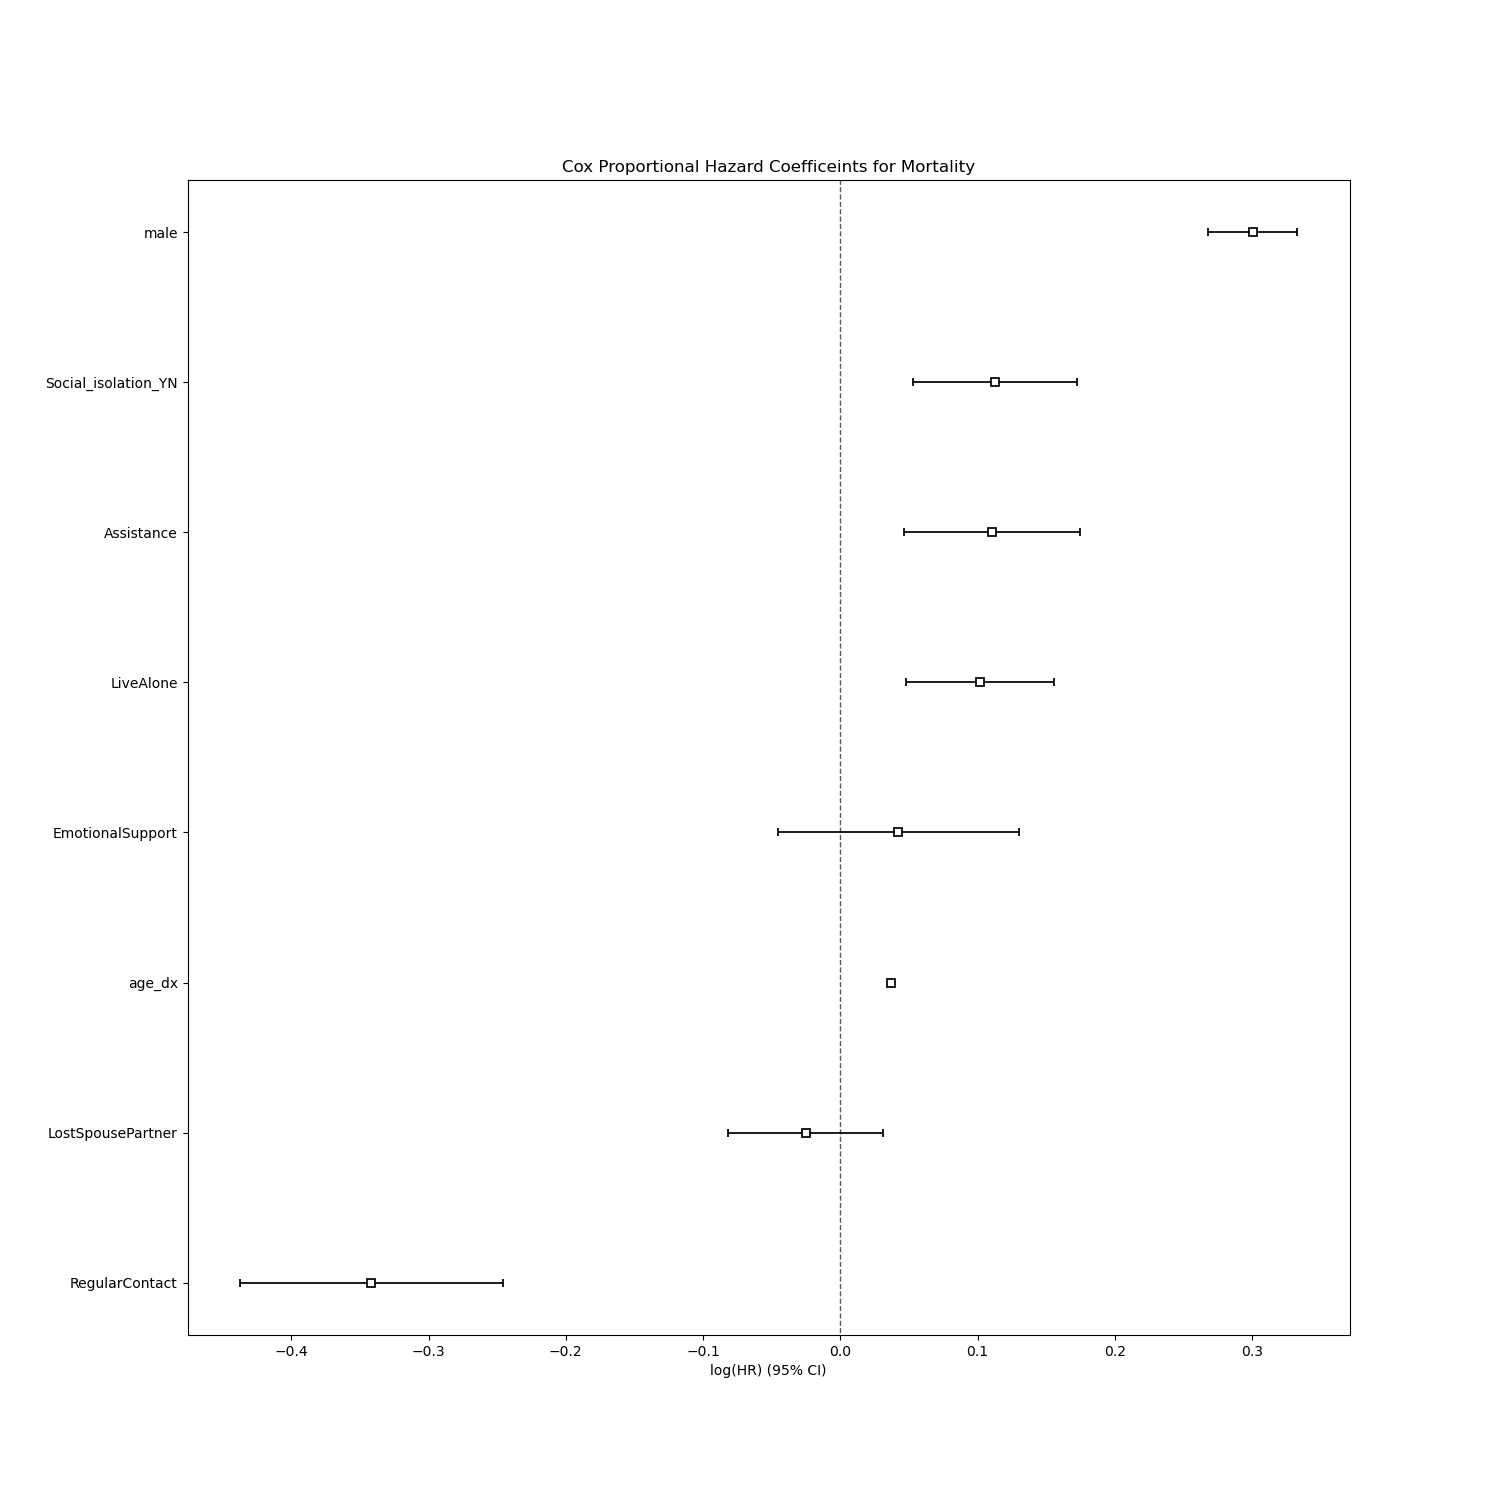
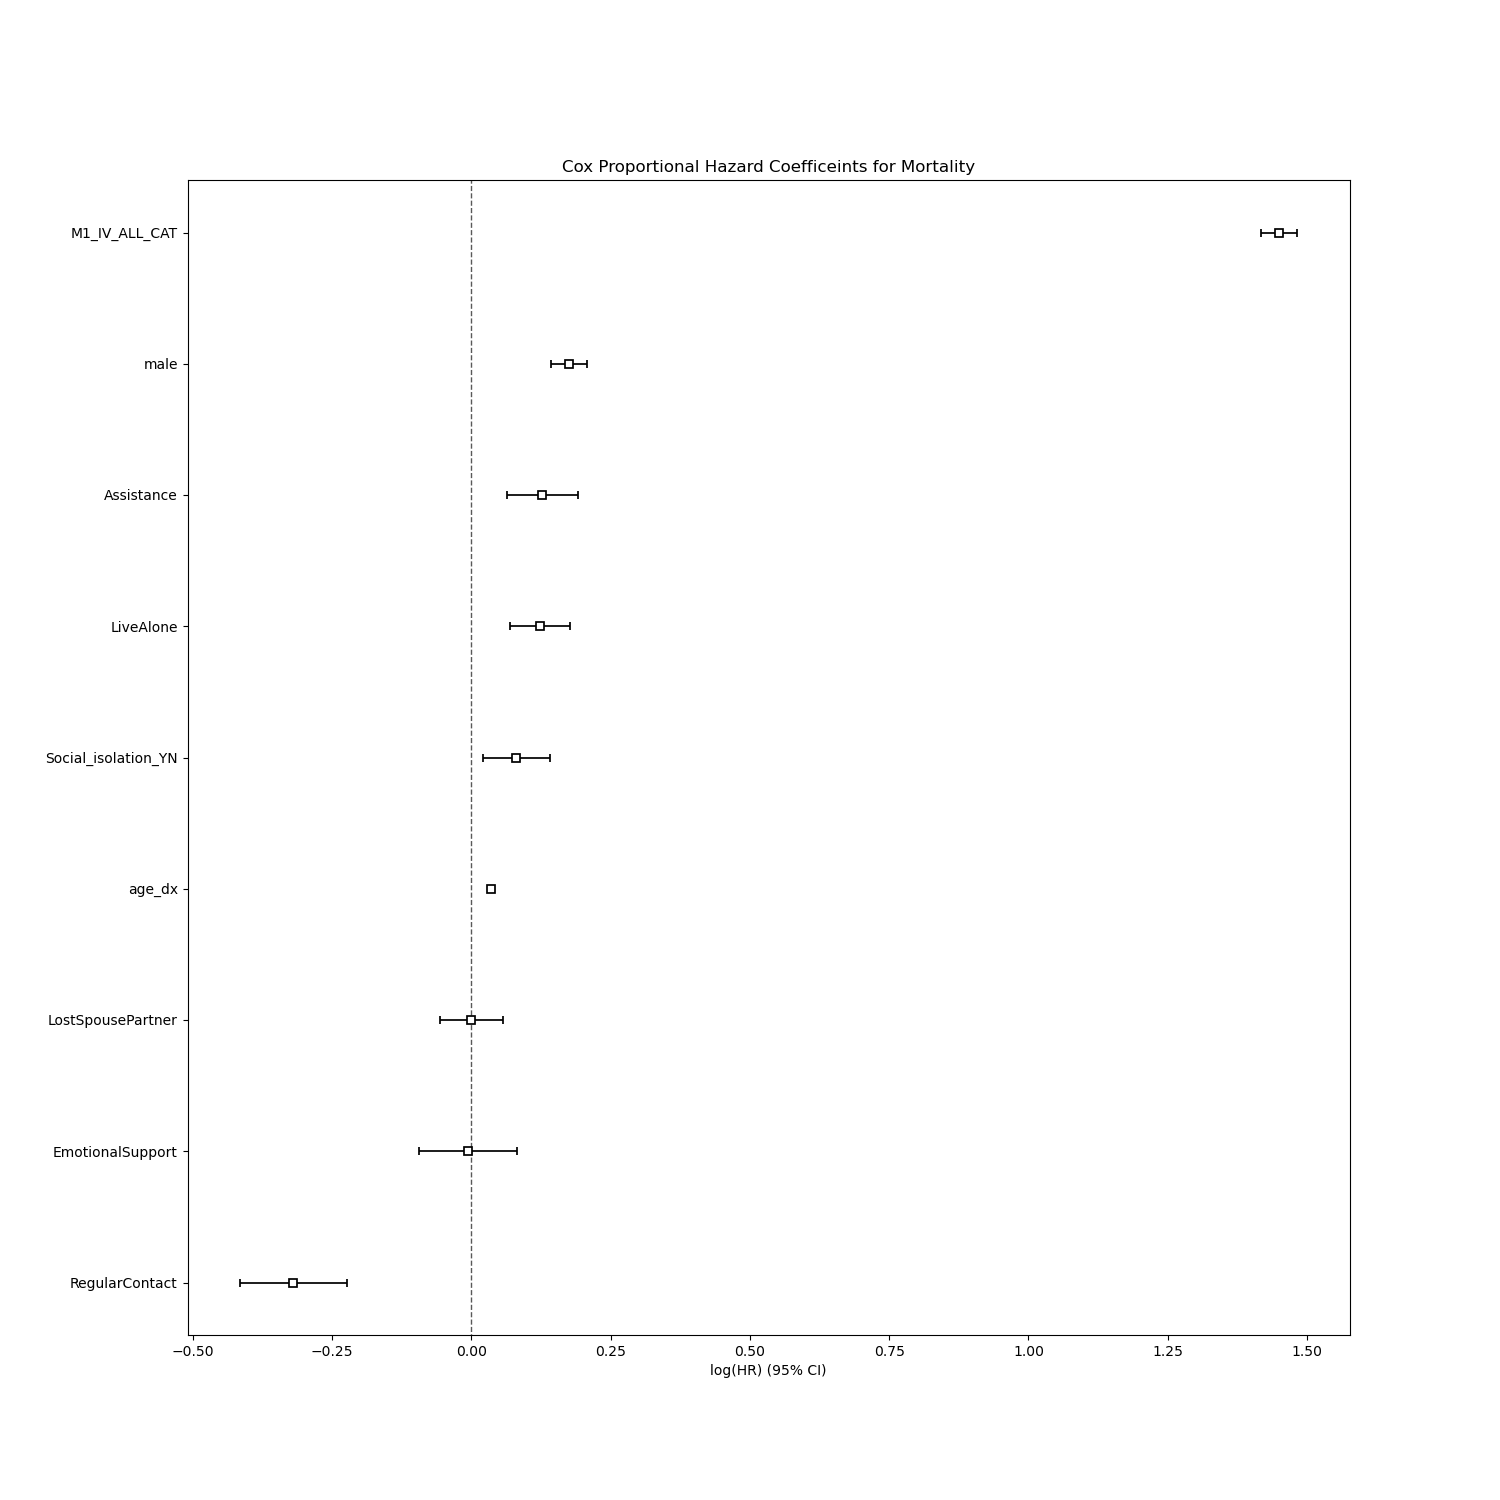
Added metastatic status as a feature

diff --git a/preprocesser.py b/preprocesser.py
@@ -36,6 +36,11 @@ def preprocess(pts_csv=RAW_PRISM_CSV, data_dir=DATA_DIR, overwrite=False):
     df['PatStatus'] = df['PatStatus'].fillna(False)
     df['PatStatus'] = df['PatStatus'].replace({"blank!": False, 'A': False, 'D': True})
 
+    # Replace missing metastatic entires with False, and convert to True False
+    df['M1_IV_ALL_CAT'] = df['M1_IV_ALL_CAT'].astype('str')
+    df['M1_IV_ALL_CAT'] = df['M1_IV_ALL_CAT'].replace({"blank!": False, '0': False, '1': True, '99':False})
+
+
     # For the various social isolation features, fill blanks with mode, and convert to True/False
     for feature in SOC_ISO_FEATS:
         df[feature] = df[feature].astype('str') # Convert col to string

diff --git a/analysis.py b/analysis.py
@@ -65,7 +65,7 @@ def plot_CPH_model(df, ax):
     :return: nothing, but plots figure to supplied axis
     """
     # Make a df from the discipline's df which just the columns we need or are examining
-    cph_cols = ['age_dx', 'observed_mo', 'male', 'died'] + SOC_ISO_FEATS # Columns for our CPH Model, CPH_COLS are what variables are examined
+    cph_cols = ['age_dx', 'observed_mo', 'male', 'died', 'M1_IV_ALL_CAT'] + SOC_ISO_FEATS # Columns for our CPH Model, CPH_COLS are what variables are examined
 
     df = df.copy()[cph_cols]
     #df['sex'] = df['sex'].replace({"F": 1, "M": 0}) # Convert to dummy variable (one-hot) for chpfitter

diff --git a/globals.py b/globals.py
@@ -9,7 +9,7 @@ INDEX = "Other_Study_ID"
 
 # Features to extract from the raw PRSIM file
 SOC_ISO_FEATS = ['LiveAlone', 'LostSpousePartner', 'Assistance', 'RegularContact', 'EmotionalSupport', 'Social_isolation_YN']
-FROM_PRISM = ['PatStatus', 'Dx_to_death_lastfu_months', 'AgeAtDiagnosis', 'Sex'] + SOC_ISO_FEATS
+FROM_PRISM = ['PatStatus', 'Dx_to_death_lastfu_months', 'AgeAtDiagnosis', 'Sex', 'M1_IV_ALL_CAT'] + SOC_ISO_FEATS
 
 # If want to calculate seperately, used following, slightly different from what exists
 # 'DiagnosisDate', 'Death_or_lastfu_date']
